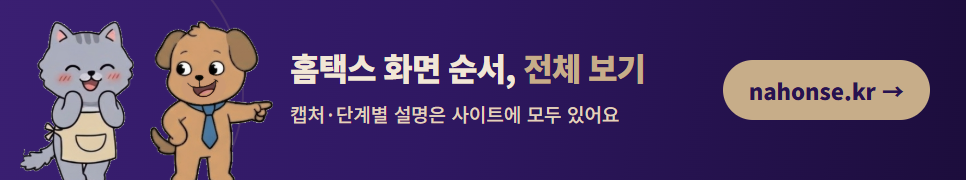
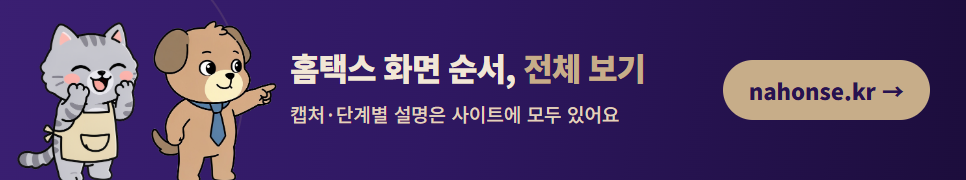
네이버 블로그 제목·꼬리 이미지를 새 캐릭터로 변경

Changed region(s): [[0.0, 0.1111, 0.3106, 1.0]]

diff --git a/_tools/naver-title.html b/_tools/naver-title.html
@@ -24,6 +24,6 @@ small{display:block;margin-top:8px;font-size:16px;color:#c7ad89;opacity:.8;lette
     <p>홈택스 화면 그대로, 순서대로 따라 해요</p>
     <small>세금계산서 · 민원증명 · 부가세 · 종합소득세</small>
   </div>
-  <img class="c" src="../assets/toon/cat-happy.png" style="right:190px">
+  <img class="c" src="../assets/toon/cat-hero.png" style="right:205px">
   <img class="c" src="../assets/toon/dog-point-left.png" style="right:30px">
 </div></body></html>

diff --git a/_tools/naver-footer.html b/_tools/naver-footer.html
@@ -17,7 +17,7 @@ p{margin:10px 0 0;font-size:19px;color:#e2d3bd}
 </style></head><body>
 <div class="f">
   <div class="ring" style="width:300px;height:300px;left:-60px;top:-60px"></div>
-  <img class="c" src="../assets/toon/cat-happy.png" style="left:20px">
+  <img class="c" src="../assets/toon/cat-hero.png" style="left:16px">
   <img class="c" src="../assets/toon/dog-point-right.png" style="left:150px">
   <div class="txt">
     <h2>홈택스 화면 순서, <b>전체 보기</b></h2>
